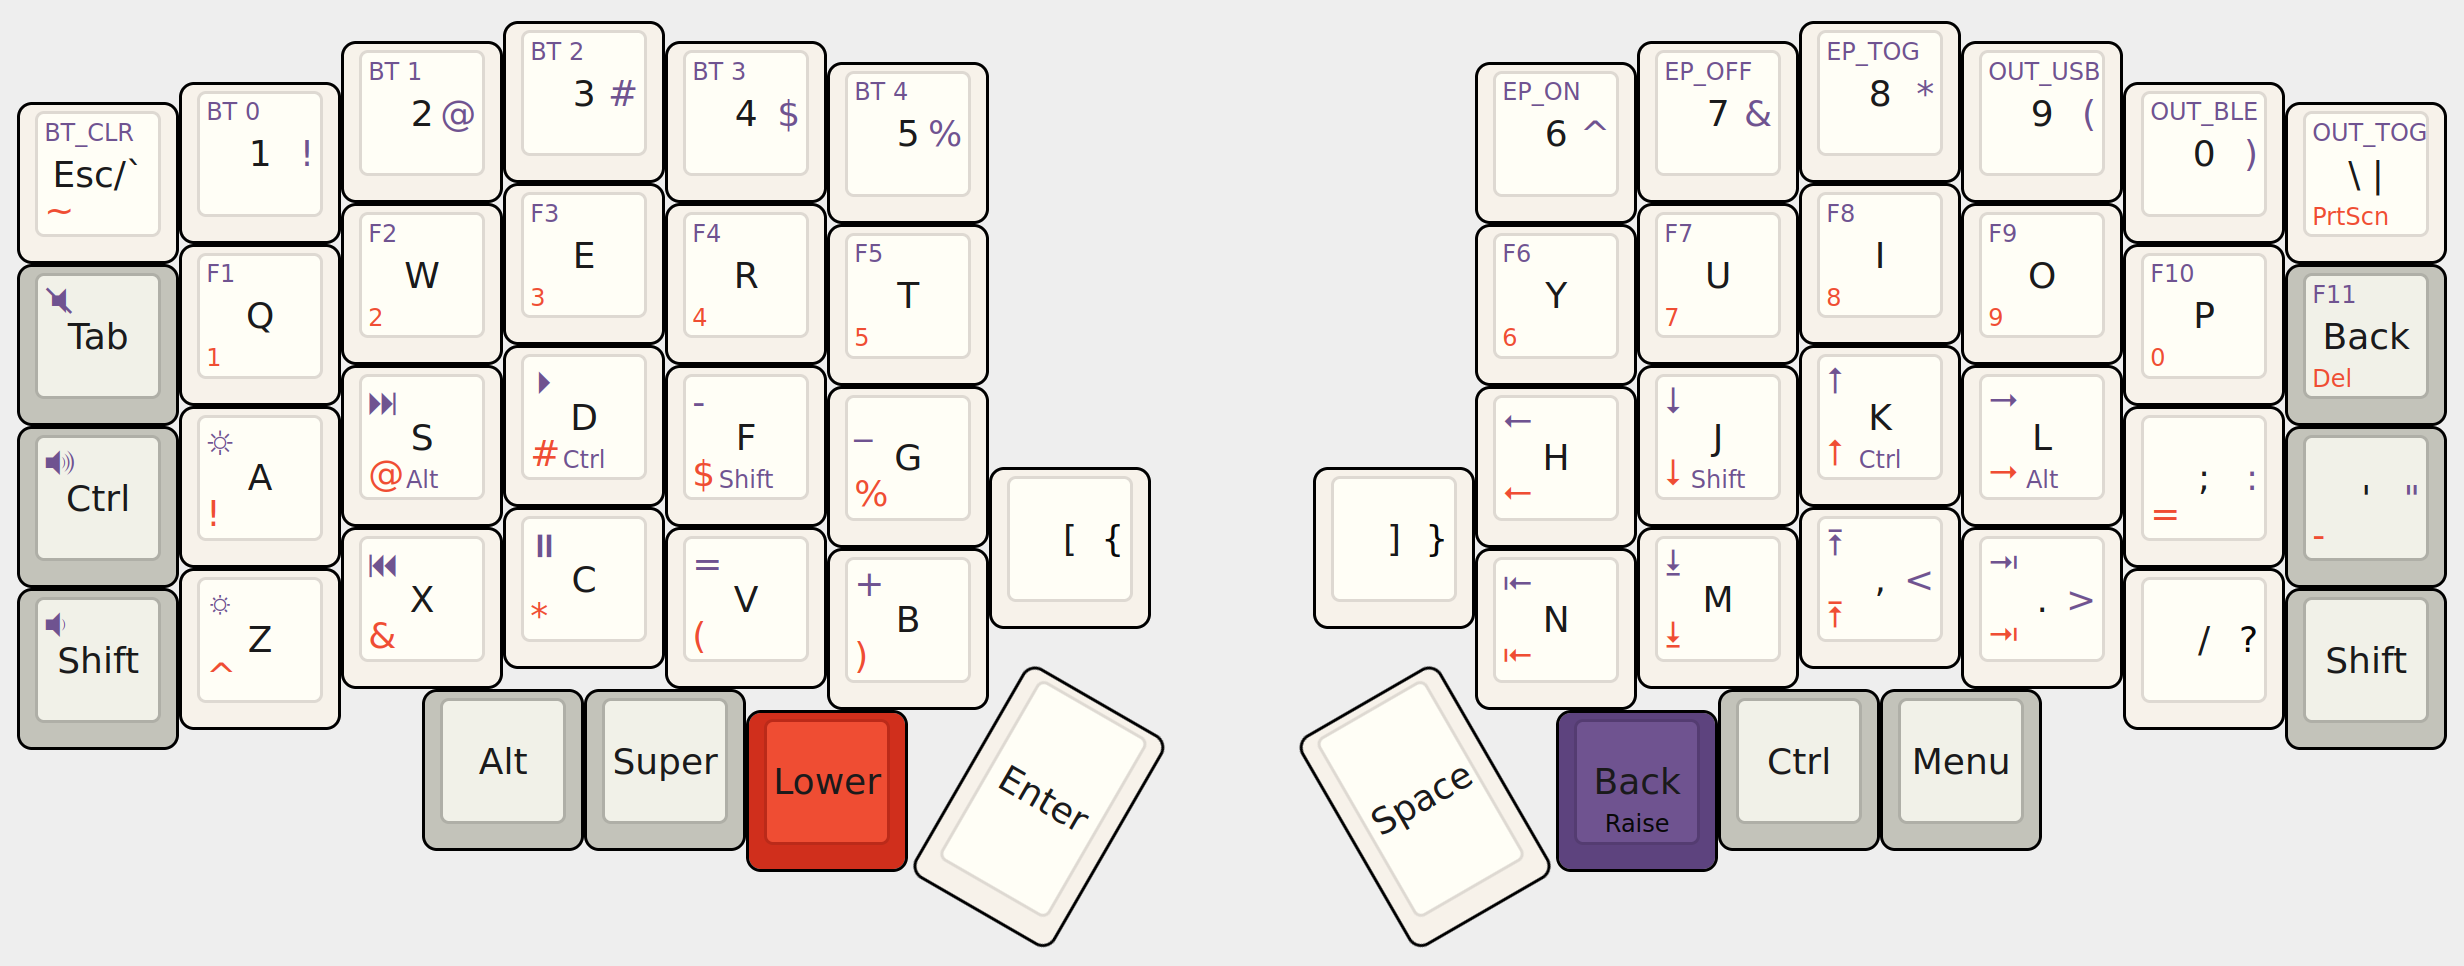
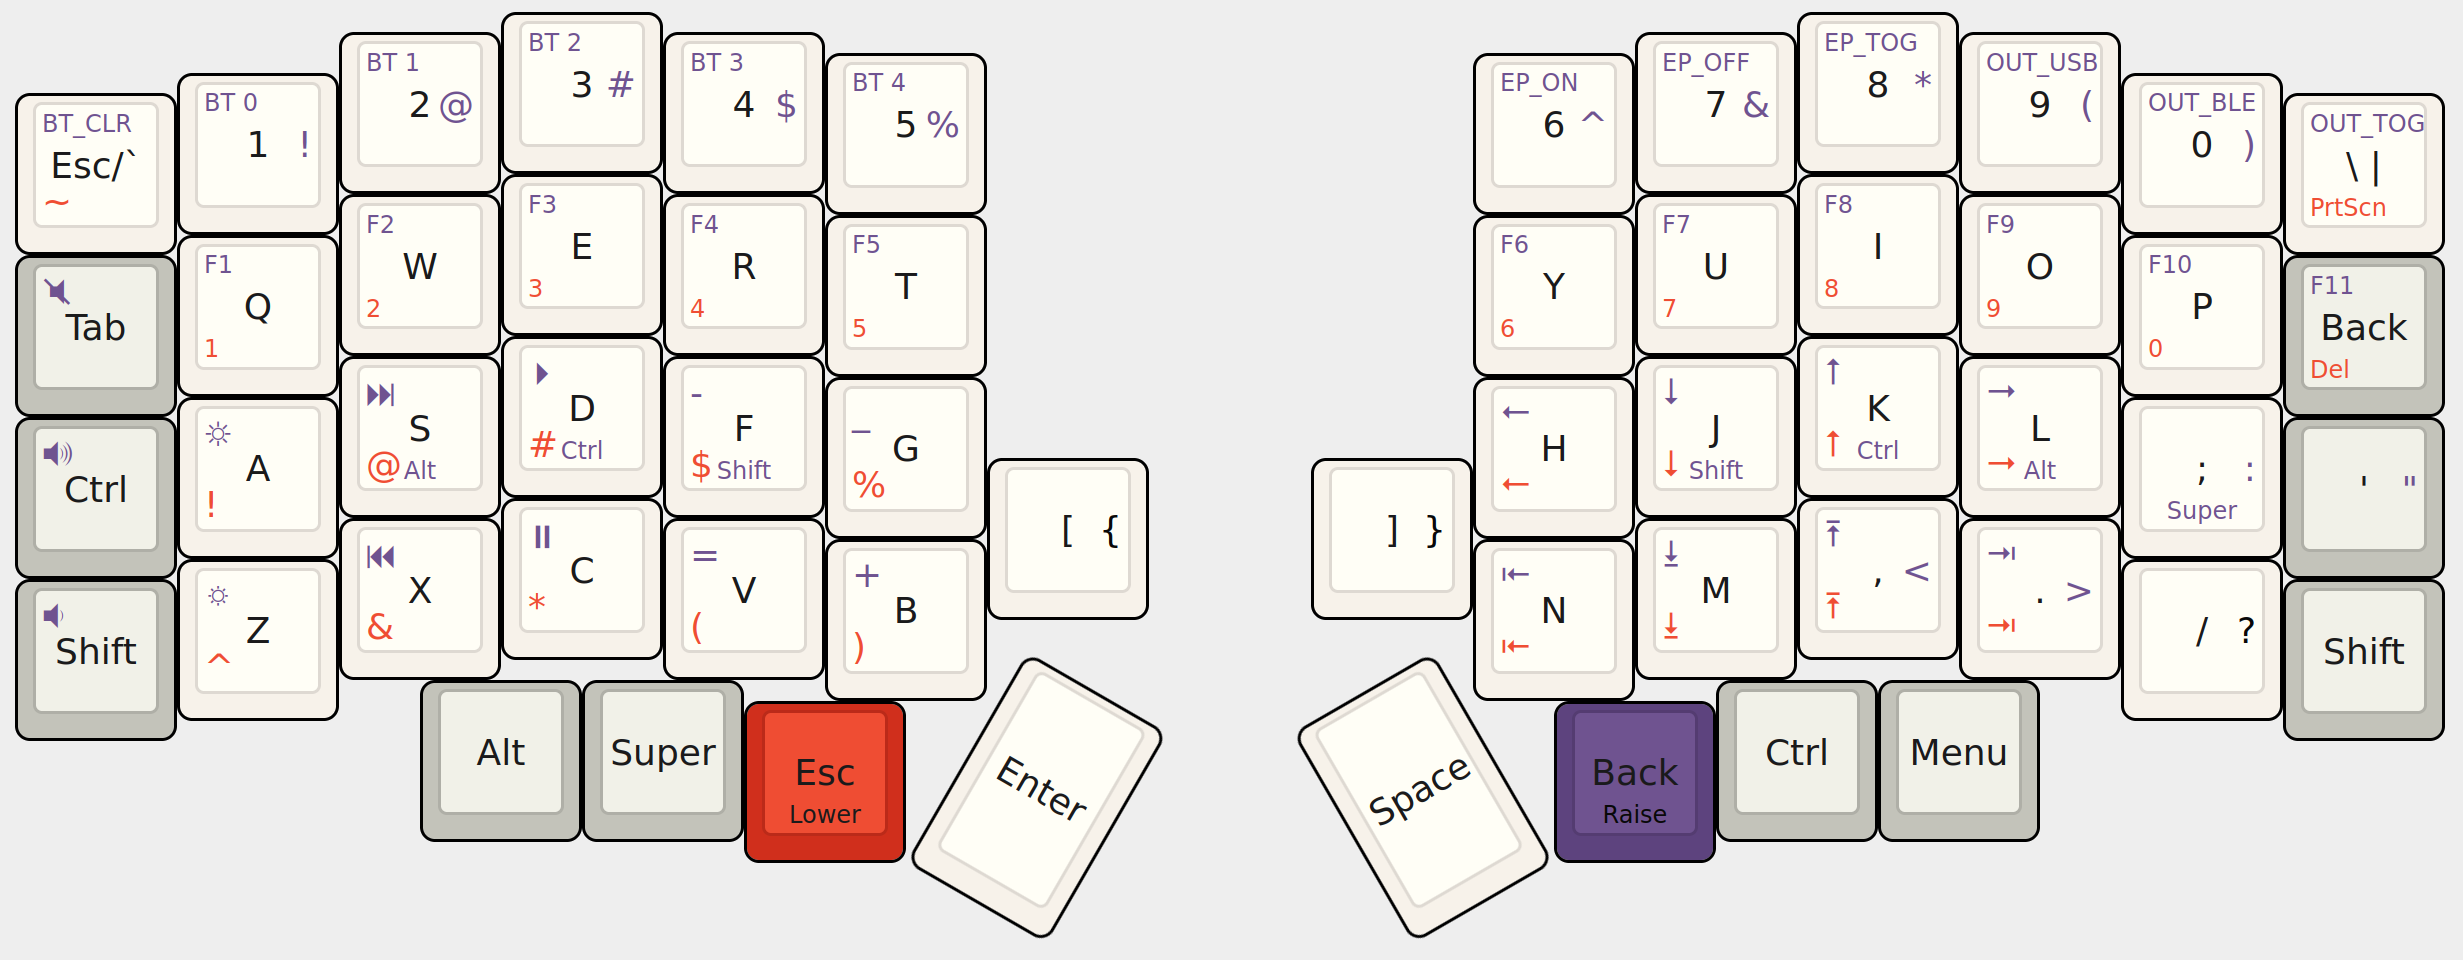
Update keymap, set 1hr timeout for sleep
Tap lower for Esc, hold ; for Super

diff --git a/README.rst b/README.rst
@@ -3,7 +3,7 @@ Lily58 layout by jhauh
 
 Standard zmk-config repo, push to kick off a GitHub Actions workflow
 which will build the keyboard firmware to your liking and spit out
-a zip of uf2 files in the Releases section of the repo.
+a zip of uf2 files in the Actions section of the repo.
 
 Building Locally
 ----------------
